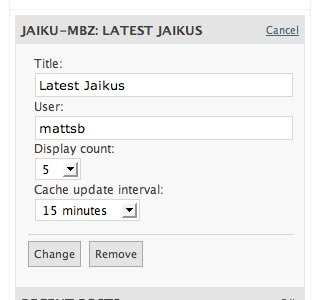
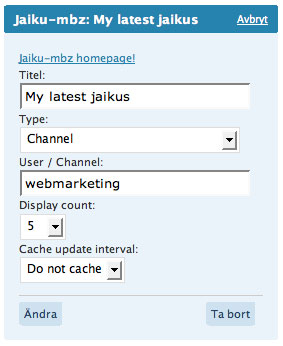
Updated with channel support etc.
git-svn-id: https://plugins.svn.wordpress.org/jaiku-mbz/trunk@62847 b8457f37-d9ea-0310-8a92-e5e31aec5664

Changed region(s): [[0.0, 0.0, 0.9894, 1.0], [0.9046, 0.39, 0.9329, 0.45]]

diff --git a/jaiku-mbz.php b/jaiku-mbz.php
@@ -3,52 +3,43 @@
 Plugin Name: jaiku-mbz
 Plugin URI: http://mbz.nu/portfolio/jaiku-mbz/
 Description: Plugin widget that lets you display your latest jaikus in the sidebar. Somewhat based on the plugin jaiku-activity by Douglas Karr.
-Version: 0.1.4
+Version: 0.2.0
 Author: Matts Bengtzén
 Author URI: http://mbz.nu/
 */
 
-function widget_jaiku_mbz_register()
-{
+function widget_jaiku_mbz_register(){
 	if ( function_exists('register_sidebar_widget') ) :
 	
-		function wpjm_verify_cache_dir($wpjm_cache_dir) 
-		{
+		function wpjm_verify_cache_dir($wpjm_cache_dir) {
 			$dir = dirname($wpjm_cache_dir);
 			
-			if( !file_exists($wpjm_cache_dir) ) 
-			{
-				if( !is_writable( $dir ) || !($dir = mkdir( $wpjm_cache_dir, 0777) ) ) 
-				{
+			if( !file_exists($wpjm_cache_dir) ) {
+				if( !is_writable( $dir ) || !($dir = mkdir( $wpjm_cache_dir, 0777) ) ) {
 					echo "<b>Error:</b> Your cache directory (<b>$wpjm_cache_dir</b>) did not exist and couldn't be created by the web server.<br />Check  $dir permissions.";
 					return false;
 				}
 			}
 			
-			if( !is_writable($wpjm_cache_dir) )
-			{
+			if( !is_writable($wpjm_cache_dir) ){
 				echo "<b>Error:</b> Your cache directory (<b>$wpjm_cache_dir</b>) or <b>$dir</b> need to be writable for this plugin to work.<br />Double-check it.";
 				return false;
 			}
 		
-			if ( '/' != substr($wpjm_cache_dir, -1) ) 
-			{
+			if ( '/' != substr($wpjm_cache_dir, -1) ) {
 				$wpjm_cache_dir .= '/';
 			}
 			return true;
 		}
 		
 		// taken directly from jaiku-activity
-		function wpjm_isSimpleXMLLoaded() 
-		{
+		function wpjm_isSimpleXMLLoaded() {
 			$array = array();
 			$array = get_loaded_extensions();
 			$result = false;
 			
-			foreach ($array as $i => $value) 
-			{
-				if (strtolower($value) == "simplexml") 
-				{ 
+			foreach ($array as $i => $value) {
+				if (strtolower($value) == "simplexml") { 
 					$result = true; 
 				}
 			}
@@ -56,13 +47,11 @@ function widget_jaiku_mbz_register()
 			return $result;
 		}
 		
-		function strip($txt)
-		{
+		function strip($txt){
 			return trim( htmlspecialchars( stripslashes( $txt ) ) );
 		}	
 	
-		function wpjm_jaiku() 
-		{
+		function wpjm_jaiku() {
 			$wpjm_cache_dir = ABSPATH.'wp-content/plugins/jaiku-mbz/cache/';
 			
 			$options = get_option('widget_jaiku_mbz');
@@ -77,35 +66,28 @@ function widget_jaiku_mbz_register()
 				$wpjm_count = 5;
 
 				
-			if( !wpjm_verify_cache_dir($wpjm_cache_dir) )
-			{
+			if( !wpjm_verify_cache_dir($wpjm_cache_dir) ){
 				echo "<br />Cannot continue... fix previous problems and retry.<br />";
 				return;
 			}
 			
-			if( !wpjm_isSimpleXMLLoaded() )
-			{
+			if( !wpjm_isSimpleXMLLoaded() ){
 				echo "<br />Cannot continue... this plugin requires SimpleXML, released in PHP5 or higher.  Check with your hosting company to find out why they aren't providing you with the latest and greatest version of PHP!<br />";
 				return;
 			}
 			
-			if( !( ($wpjm_user != "") && ($wpjm_minutes!="") ) ) 
-			{
+			if( !( ($wpjm_user != "") && ($wpjm_minutes!="") ) ) {
 				echo "<h2>Jaiku</h2>\n<ul>Please configure jaiku!</ul>\n";
 			}
-			else
-			{
+			else{
 				$cachefile = $wpjm_cache_dir."/jaiku-mbz.html";
 				$cachetime = $wpjm_minutes * 60;
 		
 				// Serve from the cache if it is younger than $cachetime
-				if( (file_exists($cachefile) && (time() - $cachetime < filemtime($cachefile) ) ) ) 
-				{
+				if( (file_exists($cachefile) && (time() - $cachetime < filemtime($cachefile) ) ) ) {
 					include($cachefile);
 					echo "<!-- Cached ".date('Y-m-d H:i', filemtime($cachefile))." -->\n";
-				} 
-				else 
-				{
+				} else {
 					// Retrieve the current rank from the API
 					$request = 'http://'.$wpjm_user.'.jaiku.com/feed/rss';
 				
@@ -128,16 +110,14 @@ function widget_jaiku_mbz_register()
 				
 					// Get the XML from the response
 					$parse_error = false;
-					try 
-					{  
+					try{
 						$xml = new SimpleXMLElement($response);
 		
 						$message .= '<ul>'."\n";
 		
 						// start parsing the rss-file
 						$i = 0;
-						foreach ($xml->xpath('//item') as $item) 
-						{
+						foreach ($xml->xpath('//item') as $item) {
 							$i++;
 							
 							if($i>$wpjm_count)
@@ -150,8 +130,7 @@ function widget_jaiku_mbz_register()
 							$jaiku = $item->children("http://jaiku.com/ns");
 							$time = $jaiku->timesince;
 							
-							if(substr($time,-1,1)=='.')
-							{
+							if(substr($time,-1,1)=='.'){
 								$time = substr($time,0,strlen($time)-1);
 							}
 								
@@ -166,21 +145,16 @@ function widget_jaiku_mbz_register()
 						$fp = fopen($cachefile, 'w');
 						fwrite($fp, $message);
 						fclose($fp);
-					}
-					catch (Exception $e) 
-					{
+					}catch (Exception $e) {
 						$message = "<!-- There was an error! ".date('Y-m-d H:i')." -->";
 						$parse_error = true;
 					}
 					
 					// If Jaiku doesn't respond, just load the cached response
-					if( $parse_error && file_exists($cachefile) ) 
-					{
+					if( $parse_error && file_exists($cachefile) ) {
 						include($cachefile);
 						echo "<!-- Cached ".date('Y-m-d H:i', filemtime($cachefile))." -->\n";
-					} 
-					else 
-					{
+					} else {
 						// Display the results
 						echo $message;
 					}
@@ -191,8 +165,7 @@ function widget_jaiku_mbz_register()
 
 
 	
-		function widget_jaiku_mbz($args) 
-		{
+		function widget_jaiku_mbz($args) {
 			extract($args);
 			$options = get_option('widget_jaiku_mbz');
 			
@@ -207,12 +180,10 @@ function widget_jaiku_mbz_register()
 			echo $after_widget;
 		}
 	
-		function widget_jaiku_mbz_control() 
-		{
+		function widget_jaiku_mbz_control() {
 			$options = $newoptions = get_option('widget_jaiku_mbz');
 			
-			if ( $_POST["wpjm_submit"] ) 
-			{
+			if ( $_POST["wpjm_submit"] ) {
 				$newoptions['wpjm_title'] = strip($_POST["wpjm_title"]);
 				if( empty($newoptions['wpjm_title']) ) 
 					$newoptions['wpjm_title'] = 'Latest Jaikus';
@@ -222,8 +193,7 @@ function widget_jaiku_mbz_register()
 				$newoptions['wpjm_count'] 	= strip_tags(stripslashes($_POST["wpjm_count"]));
 			}
 			
-			if ( $options != $newoptions ) 
-			{
+			if ( $options != $newoptions ) {
 				$options = $newoptions;
 				update_option('widget_jaiku_mbz', $options);
 			}
@@ -248,8 +218,7 @@ function widget_jaiku_mbz_register()
 			echo '	<br />' . "\n";
 			echo '	<label for="wpjm_count">'._e('Display count:').'</label><br />' . "\n";
 			echo '	<select name="wpjm_count" id="wpjm_count">' . "\n";
-			for($i=1;$i<=10;$i++)
-			{
+			for($i=1;$i<=10;$i++){
 				echo '\t\t<option value="'.$i.'"'.($i==$wpjm_count?' selected="selected"':'').'>'.$i.'</option>' . "\n";	
 			}			
 			echo '	</select>' . "\n";
@@ -267,8 +236,7 @@ function widget_jaiku_mbz_register()
 			echo '<input type="hidden" id="wpjm_submit" name="wpjm_submit" value="1" />' . "\n";
 		}
 		
-		function widget_jaiku_mbz_style()
-		{
+		function widget_jaiku_mbz_style(){
 			?>
 			<style type="text/css">
 			.wpjm_time {font-weight: bold;}
